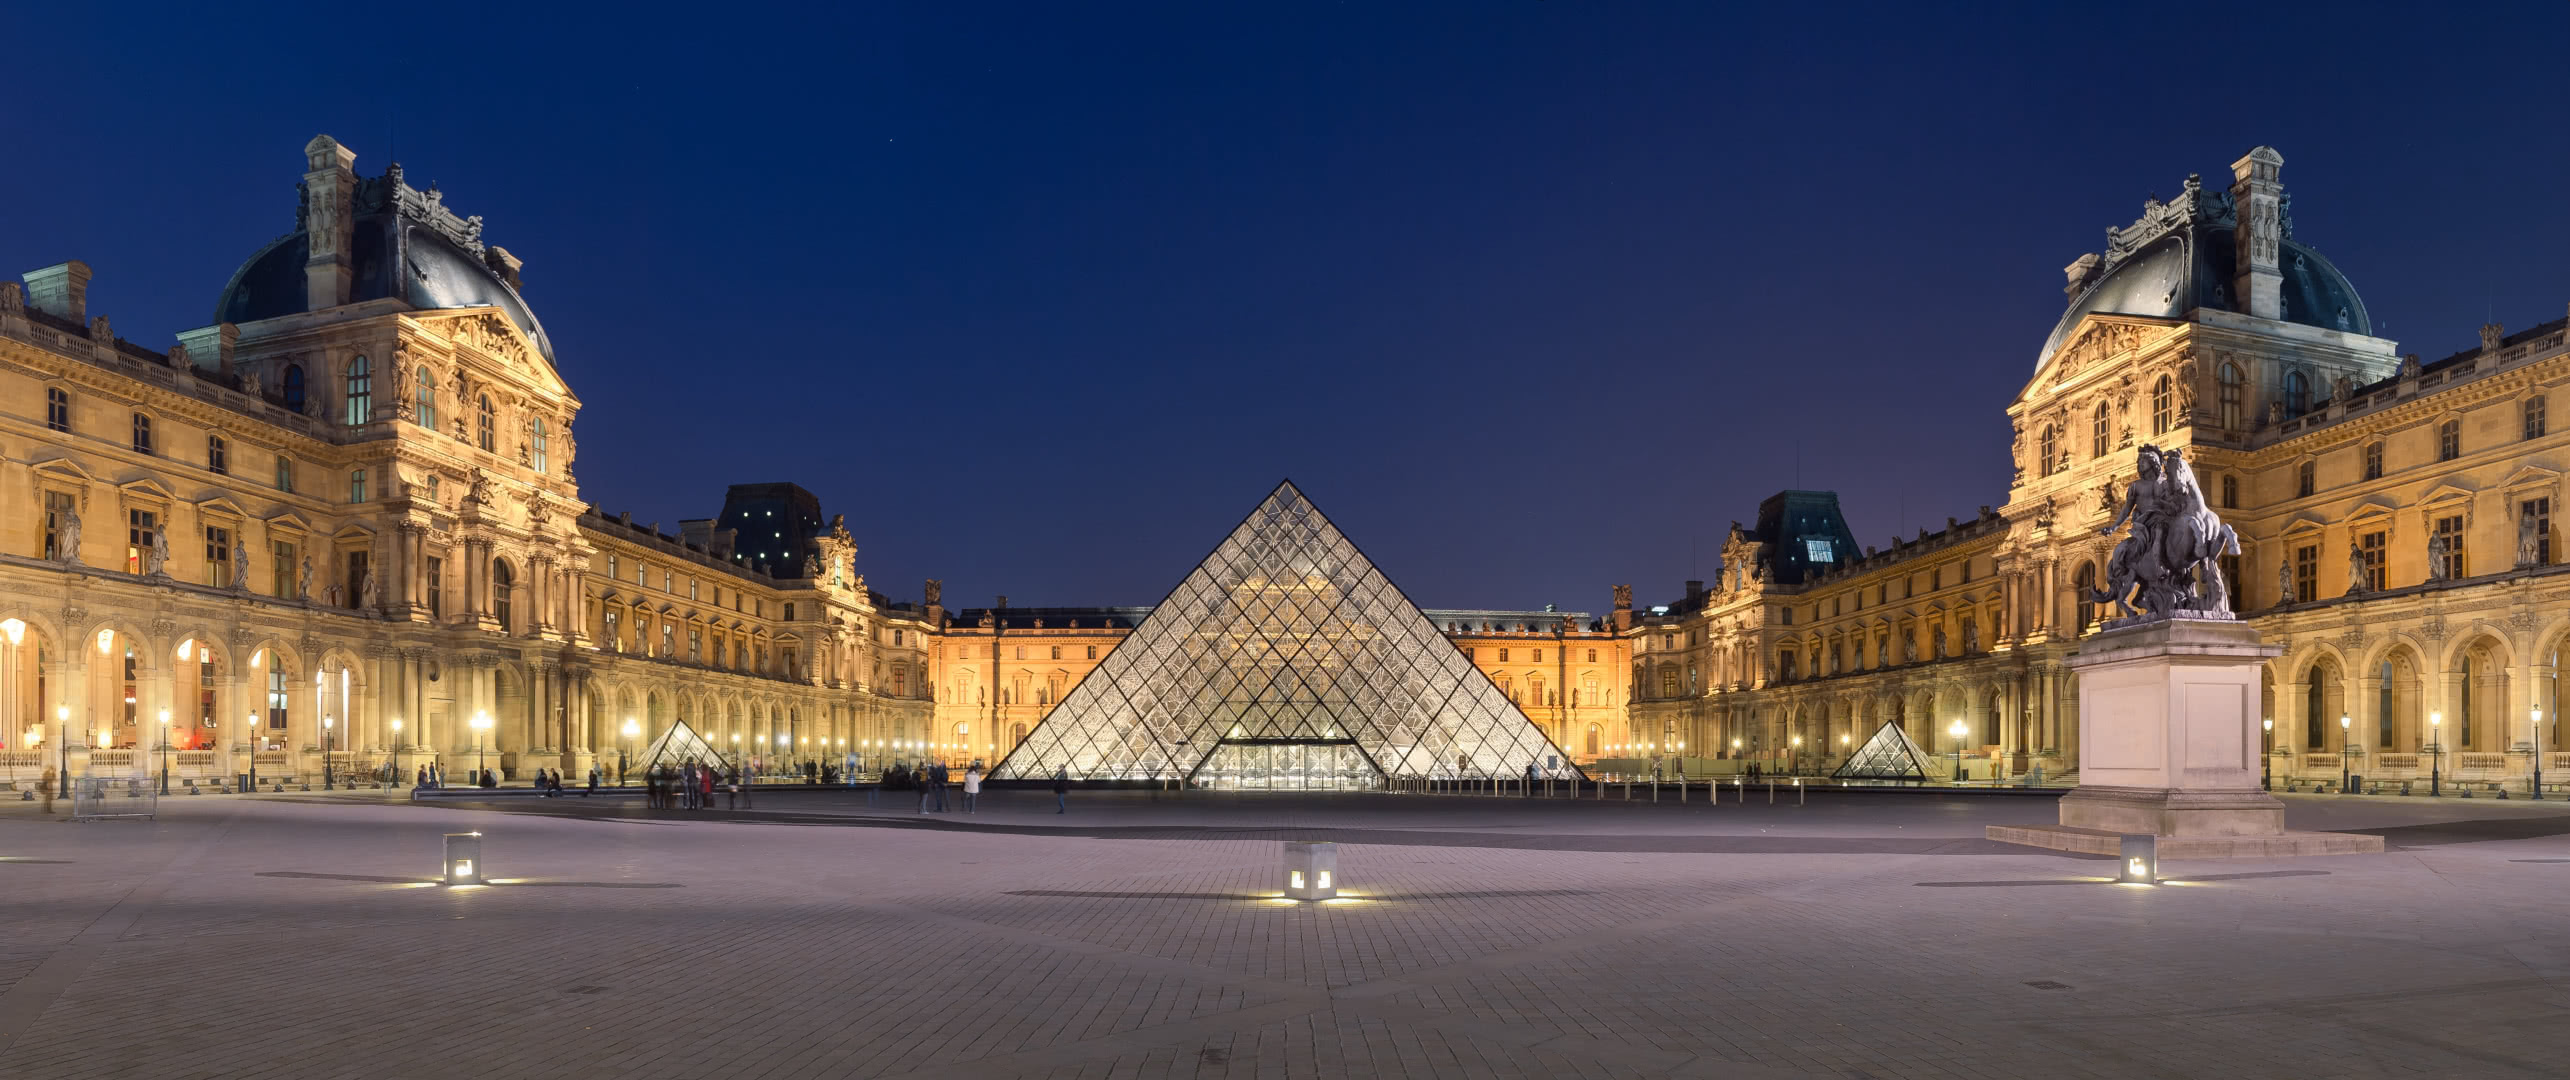
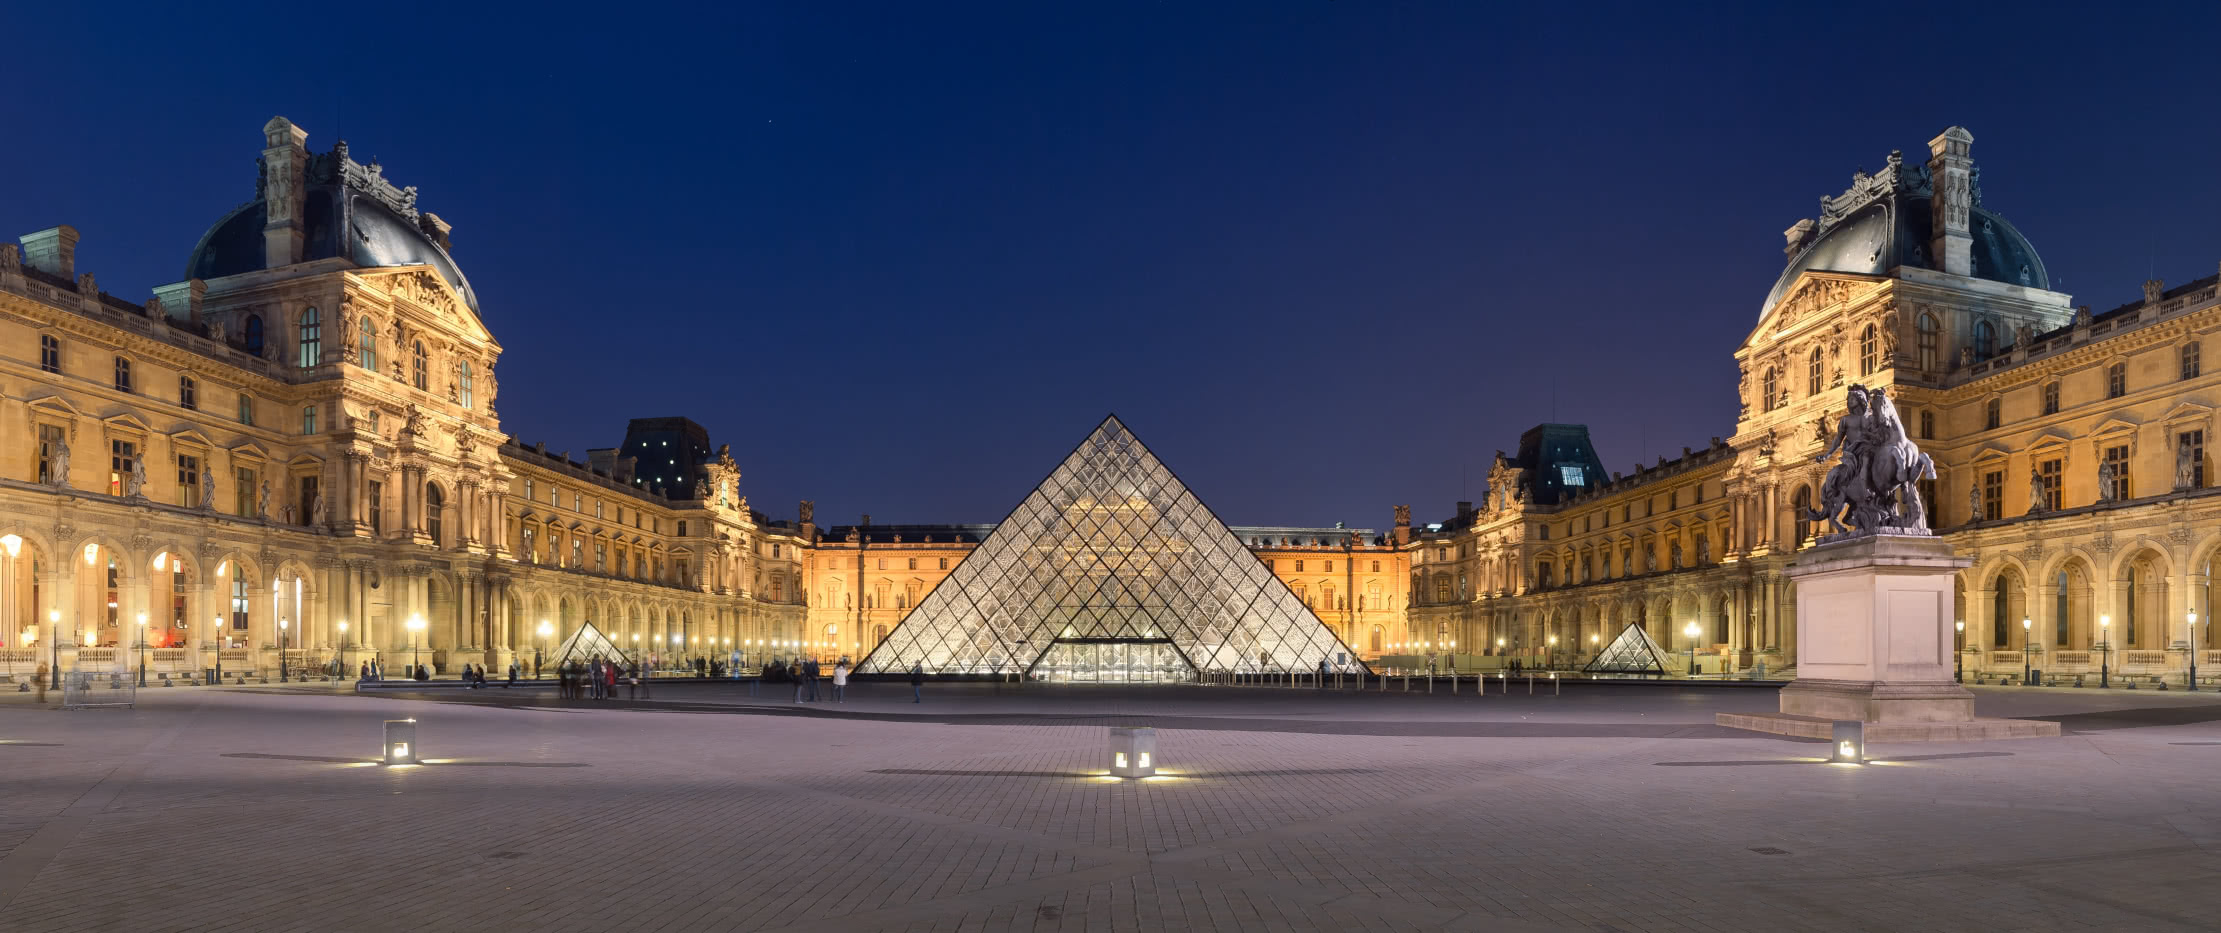
Tweaked jpeg scaling

Changed region(s): [[0.4971, 0.5906, 0.5281, 0.6217]]

diff --git a/node/optimize-jpeg/optimize-jpeg.js b/node/optimize-jpeg/optimize-jpeg.js
@@ -3,6 +3,25 @@ const guetzli = require('imagemin-guetzli');
 const imagemin = require('imagemin');
 const jimp = require('jimp');
 
+const aspectRatio = (a, b) => {
+    const gcd_ = gcd(a, b);
+    return [a / gcd_, b / gcd_];
+};
+
+// Greatest common divisor
+const gcd = (numerator, denominator) => denominator ? gcd(denominator,
+    numerator % denominator) : numerator;
+
+const lowerRes = (inFile, outFile, maxRes, callback) => jimp.read(inFile)
+    .then(img => {
+        const targetWidth = scaleDown(
+            [img.bitmap.width, img.bitmap.height],
+            maxRes,
+        );
+        img.resize(targetWidth, jimp.AUTO);
+        img.write(outFile, callback);
+    }).catch(err => console.log(err));
+
 const optimize = (inFile, outFile, outDir) => imagemin([outFile], outDir, {
     use: [
         guetzli({quality: 85}),
@@ -10,27 +29,25 @@ const optimize = (inFile, outFile, outDir) => imagemin([outFile], outDir, {
 }).then(() => console.log(`Optimized ${ inFile } to ${ outFile }`))
     .catch(err => console.log(err));
 
-const downsize = (inFile, outFile, maxHeight, maxWidth, callback) => jimp
-    .read(inFile)
-    .then(img => {
-        if (img.bitmap.height > img.bitmap.width)
-            img.resize(maxWidth, jimp.AUTO);
-        else
-            img.resize(jimp.AUTO, maxHeight);
-        img.write(outFile, callback);
-    }).catch(err => console.log(err));
+const scaleDown = (dimensions, maxRes) => {
+    if (dimensions[0] * dimensions[1] < maxRes)
+        return dimensions[0];
+    const aspectRatio_ = aspectRatio(...dimensions);
+    return Math.floor(Math.sqrt(aspectRatio_[0] * maxRes / aspectRatio_[1]));
+};
 
 const go = cfg => globby(cfg.input)
     .then(files => files.forEach(file => {
         const outFile = cfg.getOutput(file);
-        downsize(file, outFile, cfg.maxHeight, cfg.maxWidth, optimize
-            .bind(null, file, outFile, cfg.getOutputDir(outFile)));
+        lowerRes(
+            file, outFile, cfg.maxRes,
+            optimize.bind(null, file, outFile, cfg.getOutputDir(outFile)),
+        );
     })).catch(err => console.log(err));
 
 go({
     input: './node/optimize-jpeg/input/**/*.{jpg,jpeg}',
-    maxHeight: 1080,
-    maxWidth: 1920,
+    maxRes: 1920 * 1080,
     getOutput: filepath => filepath.replace('input', 'output'),
     getOutputDir: filepath => filepath.substr(0, filepath.lastIndexOf('/')),
 });
